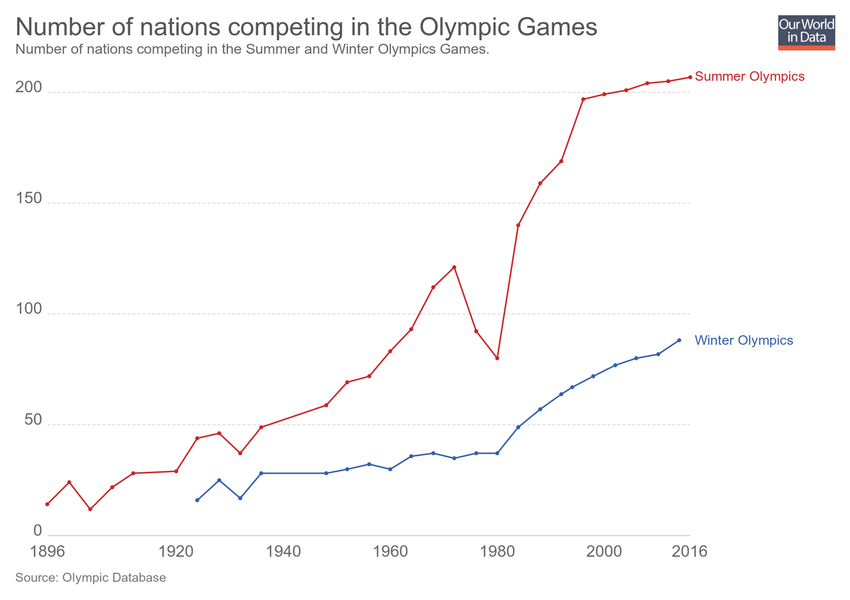
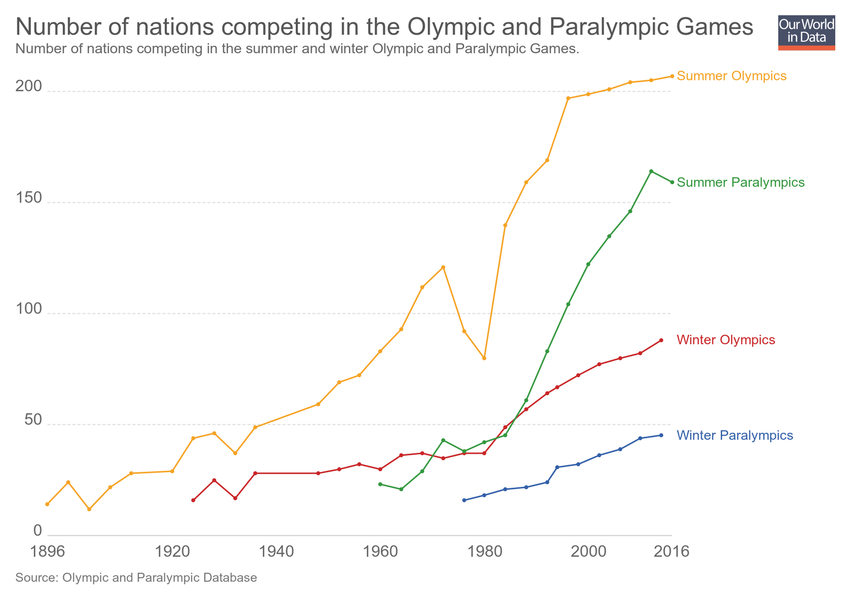
Updating chart nations-in-olympics

diff --git a/grapher/nations-in-olympics.html b/grapher/nations-in-olympics.html
@@ -1,4 +1,4 @@
-<!doctype html><html><head><meta name="viewport" content="width=device-width, initial-scale=1" /><title>Number of nations competing in the Olympic Games - Our World in Data</title><meta name="description" content="Number of nations competing in the Summer and Winter Olympics Games." /><link rel="canonical" href="https://ourworldindata.org/grapher/nations-in-olympics" /><meta property="fb:app_id" content="1149943818390250" /><meta property="og:url" content="https://ourworldindata.org/grapher/nations-in-olympics" /><meta property="og:title" content="Number of nations competing in the Olympic Games" /><meta property="og:description" content="Number of nations competing in the Summer and Winter Olympics Games." /><meta property="og:image" content="https://ourworldindata.org/grapher/exports/nations-in-olympics.png?v=1" /><meta property="og:image:width" content="850" /><meta property="og:image:height" content="600" /><meta property="og:site_name" content="Our World in Data" /><meta name="twitter:card" content="summary_large_image" /><meta name="twitter:site" content="@OurWorldInData" /><meta name="twitter:creator" content="@OurWorldInData" /><meta name="twitter:title" content="Number of nations competing in the Olympic Games" /><meta name="twitter:description" content="Number of nations competing in the Summer and Winter Olympics Games." /><meta name="twitter:image" content="https://ourworldindata.org/grapher/exports/nations-in-olympics.png?v=1" /><style>
+<!doctype html><html><head><meta name="viewport" content="width=device-width, initial-scale=1" /><title>Number of nations competing in the Olympic and Paralympic Games - Our World in Data</title><meta name="description" content="Number of nations competing in the summer and winter Olympic and Paralympic Games." /><link rel="canonical" href="https://ourworldindata.org/grapher/nations-in-olympics" /><meta property="fb:app_id" content="1149943818390250" /><meta property="og:url" content="https://ourworldindata.org/grapher/nations-in-olympics" /><meta property="og:title" content="Number of nations competing in the Olympic and Paralympic Games" /><meta property="og:description" content="Number of nations competing in the summer and winter Olympic and Paralympic Games." /><meta property="og:image" content="https://ourworldindata.org/grapher/exports/nations-in-olympics.png?v=3" /><meta property="og:image:width" content="850" /><meta property="og:image:height" content="600" /><meta property="og:site_name" content="Our World in Data" /><meta name="twitter:card" content="summary_large_image" /><meta name="twitter:site" content="@OurWorldInData" /><meta name="twitter:creator" content="@OurWorldInData" /><meta name="twitter:title" content="Number of nations competing in the Olympic and Paralympic Games" /><meta name="twitter:description" content="Number of nations competing in the summer and winter Olympic and Paralympic Games." /><meta name="twitter:image" content="https://ourworldindata.org/grapher/exports/nations-in-olympics.png?v=3" /><style>
         html, body {
             height: 100%;
             margin: 0;
@@ -20,8 +20,8 @@
         }
     </style><noscript><style>
                     figure { display: none !important; }
-                </style></noscript><link rel="stylesheet" href="https://ourworldindata.org/grapher/assets/commons.bundle.b9f051796dbbbb7e5139.css" /><link rel="preload" href="/grapher/data/variables/97817+97819.json?v=1" as="fetch" crossorigin /></head><body class="singleChart"><figure data-grapher-src="/grapher/nations-in-olympics"></figure><noscript id="fallback"><img src="/grapher/exports/nations-in-olympics.svg" /><p>Interactive visualization requires JavaScript</p></noscript><script src="https://cdn.polyfill.io/v2/polyfill.min.js?features=es6,fetch"></script><script src="https://ourworldindata.org/grapher/assets/commons.bundle.b9f051796dbbbb7e5139.js"></script><script src="https://ourworldindata.org/grapher/assets/charts.bundle.b9f051796dbbbb7e5139.js"></script><script>
-        var jsonConfig = {"map":{"projection":"World","colorSchemeLabels":[],"colorSchemeValues":[],"customNumericColors":[],"customCategoryColors":{},"customCategoryLabels":{},"customHiddenCategories":{}},"tab":"chart","slug":"nations-in-olympics","type":"LineChart","title":"Number of nations competing in the Olympic Games","xAxis":{"scaleType":"linear"},"yAxis":{"min":0,"scaleType":"linear"},"version":1,"subtitle":"Number of nations competing in the Summer and Winter Olympics Games.","hasMapTab":false,"stackMode":"absolute","dimensions":[{"display":{"name":"Summer Olympics"},"property":"y","variableId":97817},{"display":{"name":"Winter Olympics"},"property":"y","variableId":97819}],"sourceDesc":"Olympic Database","hasChartTab":true,"isPublished":true,"selectedData":[{"index":0,"entityId":355},{"index":1,"entityId":355}],"addCountryMode":"change-country","hideTitleAnnotation":true,"id":2961};
+                </style></noscript><link rel="stylesheet" href="https://ourworldindata.org/grapher/assets/commons.bundle.b9f051796dbbbb7e5139.css" /><link rel="preload" href="/grapher/data/variables/97817+97819+97823+97821.json?v=3" as="fetch" crossorigin /></head><body class="singleChart"><figure data-grapher-src="/grapher/nations-in-olympics"></figure><noscript id="fallback"><img src="/grapher/exports/nations-in-olympics.svg" /><p>Interactive visualization requires JavaScript</p></noscript><script src="https://cdn.polyfill.io/v2/polyfill.min.js?features=es6,fetch"></script><script src="https://ourworldindata.org/grapher/assets/commons.bundle.b9f051796dbbbb7e5139.js"></script><script src="https://ourworldindata.org/grapher/assets/charts.bundle.b9f051796dbbbb7e5139.js"></script><script>
+        var jsonConfig = {"id":2961,"map":{"projection":"World","colorSchemeLabels":[],"colorSchemeValues":[],"customNumericColors":[],"customCategoryColors":{},"customCategoryLabels":{},"customHiddenCategories":{}},"tab":"chart","slug":"nations-in-olympics","type":"LineChart","title":"Number of nations competing in the Olympic and Paralympic Games","xAxis":{"scaleType":"linear"},"yAxis":{"min":0,"scaleType":"linear"},"version":3,"subtitle":"Number of nations competing in the summer and winter Olympic and Paralympic Games.","hasMapTab":false,"stackMode":"absolute","dimensions":[{"display":{"name":"Summer Olympics"},"property":"y","variableId":97817},{"display":{"name":"Winter Olympics"},"property":"y","variableId":97819},{"display":{"name":"Winter Paralympics"},"property":"y","variableId":97823},{"display":{"name":"Summer Paralympics"},"property":"y","variableId":97821}],"sourceDesc":"Olympic and Paralympic Database","hasChartTab":true,"isPublished":true,"selectedData":[{"index":0,"entityId":355},{"index":1,"entityId":355},{"index":2,"entityId":355},{"index":3,"entityId":355}],"addCountryMode":"change-country","hideTitleAnnotation":true};
         var figure = document.getElementsByTagName("figure")[0];
         try {
             window.App = {};
